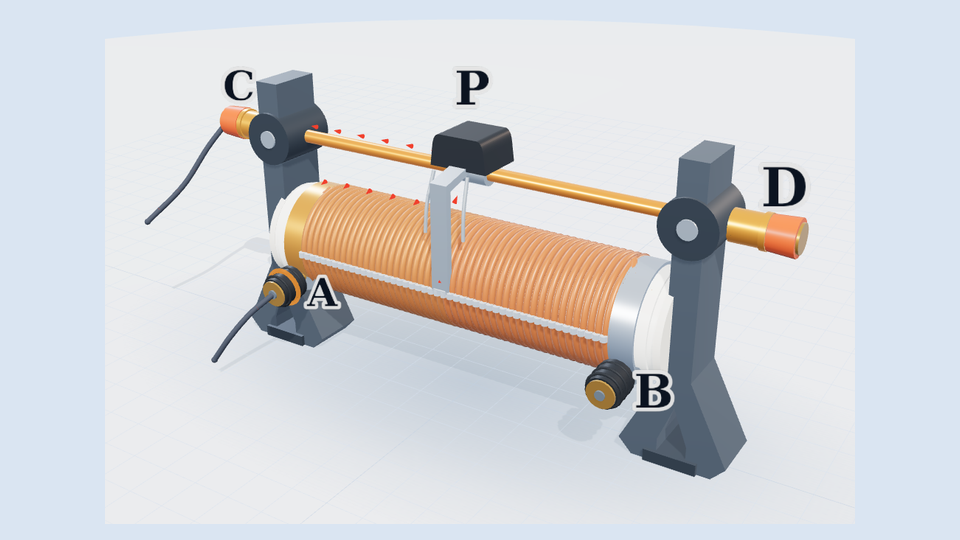
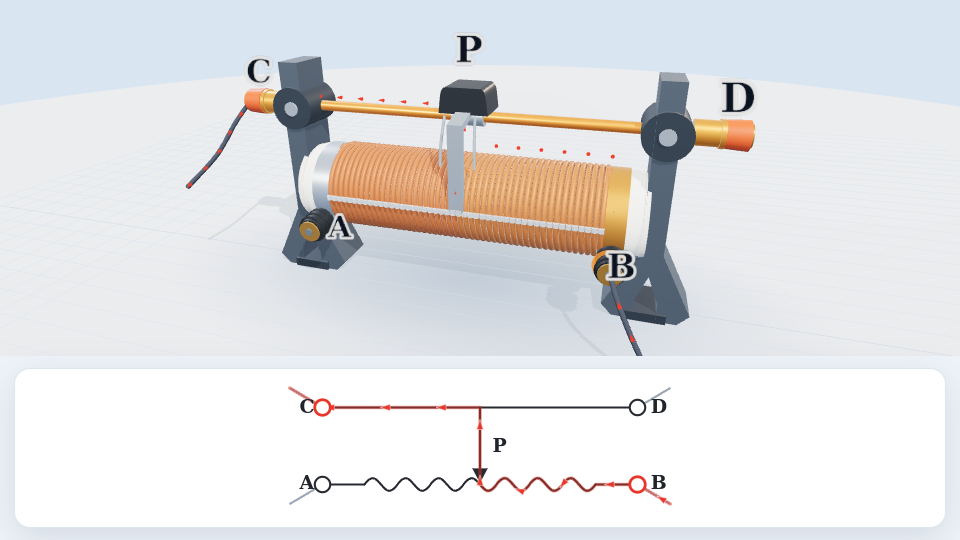
Add synchronized rheostat schematic with current paths and draggable slider

diff --git a/models/rheostat.html b/models/rheostat.html
@@ -162,10 +162,65 @@
     opacity:0;pointer-events:none;transition:all .25s ease;z-index:20;
   }
   #toast.show{opacity:1;transform:translate(-50%,0);}
+  /* 原理图与模型各有独立区域，避免遮住导线和滑片。 */
+  #stage{right:352px;bottom:264px;}
+  .head{max-width:550px;padding:10px 15px;}
+  .head p{display:none;}
+  .head h1{margin:0;}
+  .schematic-card{position:fixed;left:22px;right:352px;bottom:20px;height:230px;
+    z-index:5;background:#fff;border:1px solid var(--line);border-radius:16px;
+    box-shadow:var(--shadow);padding:12px 18px;}
+  .schematic-heading{display:flex;justify-content:space-between;align-items:center;gap:12px;font-size:17px;font-weight:700;}
+  #schematicRoute{color:#c0392b;font-size:17px;}
+  #schematicSvg{display:block;width:100%;height:180px;touch-action:none;user-select:none;}
+  #schematicSvg .conductor{fill:none;stroke:#272a30;stroke-width:3;stroke-linecap:round;stroke-linejoin:round;}
+  #schematicSvg text{font:700 27px Georgia,'Times New Roman',serif;fill:#20242b;}
+  #schematicSvg .port{fill:white;stroke:#272a30;stroke-width:3;}
+  #schematicSvg .port.connected{stroke:#e8372a;stroke-width:4;}
+  #schematicSvg .external{stroke:#9ca6b4;stroke-width:3;fill:none;}
+  #schematicSvg .path-current{fill:none;stroke:#e8372a;stroke-width:5;opacity:.45;stroke-linejoin:round;stroke-linecap:round;}
+  #schematicSvg .current-arrow{fill:#e8372a;stroke:white;stroke-width:.65;}
+  #schematicCurrent,#schematicArrows{pointer-events:none;}
+  #schematicSlider{cursor:ew-resize;}
+  .hint{bottom:264px;padding:5px 12px;font-size:11px;left:calc((100% - 352px)/2);}
+  body.controls-hidden #stage,body.controls-hidden .schematic-card{right:22px;}
+  body.controls-hidden .hint{left:50%;}
+  @media(max-height:780px){#stage{bottom:240px;}.schematic-card{height:206px;}#schematicSvg{height:158px;}.hint{bottom:240px;}}
+  @media(max-width:900px){#stage,.schematic-card{right:300px;}.panel{width:260px;right:18px;padding:12px;}.hint{left:calc((100% - 300px)/2);}}
+  @media(max-width:680px){#stage,body.controls-hidden #stage{right:0;bottom:222px;}
+    .schematic-card,body.controls-hidden .schematic-card{left:10px;right:10px;bottom:10px;height:202px;padding:10px;}
+    #schematicSvg{height:154px;}.schematic-heading,#schematicRoute{font-size:14px;}
+    .head{left:10px;top:10px;max-width:calc(100% - 64px);}.head p{display:none;}
+    .panel{top:58px;right:10px;width:240px;max-height:calc(100vh - 284px);}
+    #panelOpen{right:10px;top:12px;}.hint{display:none;}}
 </style>
 </head>
 <body>
   <div id="stage"><canvas id="scene"></canvas></div>
+  <section class="schematic-card" aria-label="滑动变阻器同步原理图">
+    <div class="schematic-heading"><span>原理图 · 滑片 P 可拖动</span><span id="schematicRoute" aria-live="polite">A → P → C</span></div>
+    <svg id="schematicSvg" viewBox="0 0 600 220" role="img" aria-labelledby="schematicTitle schematicDesc">
+      <title id="schematicTitle">滑动变阻器原理图</title>
+      <desc id="schematicDesc">上方为滑杆 C、D，下方为电阻丝 A、B，箭头 P 指向滑片接触点。红色表示实际电流路径。</desc>
+      <path class="external" d="M28 27 L75 55 M525 55 L572 27 M28 193 L75 165 M525 165 L572 193"/>
+      <path class="conductor" d="M75 55 H525 M75 165 H135 M465 165 H525"/>
+      <path id="schematicResistance" class="conductor"/>
+      <g id="schematicSlider">
+        <path id="schematicStem" class="conductor"/>
+        <path id="schematicTip" fill="#272a30"/>
+        <text id="schematicPLabel">P</text>
+        <rect id="schematicSliderHit" fill="transparent" width="44" height="133" y="40"/>
+      </g>
+      <path id="schematicCurrent" class="path-current"/>
+      <g id="schematicArrows"/>
+      <circle id="schematicPortA" class="port" cx="75" cy="165" r="11"/>
+      <circle id="schematicPortB" class="port" cx="525" cy="165" r="11"/>
+      <circle id="schematicPortC" class="port" cx="75" cy="55" r="11"/>
+      <circle id="schematicPortD" class="port" cx="525" cy="55" r="11"/>
+      <text x="42" y="172">A</text><text x="544" y="172">B</text>
+      <text x="42" y="63">C</text><text x="544" y="63">D</text>
+    </svg>
+  </section>
 
   <div class="head">
     <h1>滑动变阻器 <span>· 3D 交互演示</span></h1>
@@ -1010,6 +1065,78 @@
     dragging: false
   };
 
+  /* ================= 同步原理图 ================= */
+  const schematicSvg = document.getElementById('schematicSvg');
+  const schematicPath = document.getElementById('schematicCurrent');
+  const schematicArrows = document.getElementById('schematicArrows');
+  const schematicNodes = [];
+  const SVG_NS = 'http://www.w3.org/2000/svg';
+  let schematicKey = '', schematicLength = 1, schematicPhase = 0;
+  function diagramWaveY(x) { return 165 - 9 * Math.sin((x - 135) / 330 * Math.PI * 14); }
+  function diagramWave(a, b) {
+    const n = Math.max(1, Math.ceil(Math.abs(b - a) * 1.5)), pts = [];
+    for (let i = 0; i <= n; i++) {
+      const x = a + (b - a) * i / n;
+      pts.push([x, diagramWaveY(x)]);
+    }
+    return pts;
+  }
+  function diagramPath(points) { return points.map(function (p, i) { return (i ? 'L' : 'M') + p[0].toFixed(2) + ' ' + p[1].toFixed(2); }).join(' '); }
+  document.getElementById('schematicResistance').setAttribute('d', diagramPath(diagramWave(135, 465)));
+  for (let i = 0; i < 9; i++) {
+    const arrow = document.createElementNS(SVG_NS, 'path');
+    arrow.setAttribute('d', 'M-7 -4.7 L7 0 L-7 4.7 Z');
+    arrow.setAttribute('class', 'current-arrow');
+    schematicArrows.appendChild(arrow);schematicNodes.push(arrow);
+  }
+  function updateSchematic(dt) {
+    const fraction = clamp((state.pShown - COIL_X0) / COIL_L, 0, 1);
+    const px = 135 + fraction * 330, py = diagramWaveY(px);
+    const key = [px.toFixed(3), state.wire, state.dir, state.showFlow].join('|');
+    if (key !== schematicKey) {
+      schematicKey = key;
+      document.getElementById('schematicStem').setAttribute('d', 'M'+px+' 55 V'+(py-13));
+      document.getElementById('schematicTip').setAttribute('d', 'M'+(px-11)+' '+(py-23)+' L'+px+' '+(py-2)+' L'+(px+11)+' '+(py-23)+' Z');
+      const label = document.getElementById('schematicPLabel');label.setAttribute('x', px+18);label.setAttribute('y', 118);
+      document.getElementById('schematicSliderHit').setAttribute('x', px-22);
+      let points, route;
+      switch(state.wire) {
+        case 'BC': points = [[572,193],[525,165],[465,165]].concat(diagramWave(465,px),[[px,55],[75,55],[28,27]]);route=['B','P','C'];break;
+        case 'AB': points = [[28,193],[75,165],[135,165]].concat(diagramWave(135,465),[[525,165],[572,193]]);route=['A','B'];break;
+        case 'CD': points = [[28,27],[75,55],[525,55],[572,27]];route=['C','D'];break;
+        default: points = [[28,193],[75,165],[135,165]].concat(diagramWave(135,px),[[px,55],[75,55],[28,27]]);route=['A','P','C'];
+      }
+      if (state.dir < 0) { points.reverse();route.reverse(); }
+      schematicPath.setAttribute('d', diagramPath(points));
+      schematicPath.dataset.connection = state.wire;schematicPath.dataset.direction = String(state.dir);
+      schematicPath.dataset.sliderFraction = fraction.toFixed(5);
+      schematicLength = Math.max(1, schematicPath.getTotalLength());
+      document.getElementById('schematicRoute').textContent = route.join(' → ');
+      document.getElementById('schematicRoute').style.color = state.showFlow ? '#c0392b' : '#5a6879';
+      ['A','B','C','D'].forEach(function (port) { document.getElementById('schematicPort'+port).classList.toggle('connected', state.wire.indexOf(port)>=0); });
+      schematicPath.style.display = state.showFlow ? '' : 'none';
+      schematicArrows.style.display = state.showFlow ? '' : 'none';
+    }
+    schematicPhase = (schematicPhase + dt * 65) % schematicLength;
+    if (state.showFlow) schematicNodes.forEach(function (arrow, i) {
+      const d = (schematicPhase + i / schematicNodes.length * schematicLength) % schematicLength;
+      const p = schematicPath.getPointAtLength(d), a = schematicPath.getPointAtLength(Math.max(0,d-1)), b = schematicPath.getPointAtLength(Math.min(schematicLength,d+1));
+      arrow.setAttribute('transform','translate('+p.x+' '+p.y+') rotate('+(Math.atan2(b.y-a.y,b.x-a.x)*180/Math.PI)+')');
+    });
+  }
+  // 原理图滑片与 3D 滑片使用同一个位置状态。
+  let schematicDragging = false;
+  function moveSchematicSlider(e) {
+    const point = schematicSvg.createSVGPoint();point.x=e.clientX;point.y=e.clientY;
+    const p = point.matrixTransform(schematicSvg.getScreenCTM().inverse());
+    setSliderP(COIL_X0 + clamp((p.x-135)/330,0,1)*COIL_L);
+  }
+  document.getElementById('schematicSlider').addEventListener('pointerdown', function (e) {
+    e.preventDefault();schematicDragging=true;schematicSvg.setPointerCapture(e.pointerId);moveSchematicSlider(e);
+  });
+  schematicSvg.addEventListener('pointermove', function(e){if(schematicDragging)moveSchematicSlider(e);});
+  ['pointerup','pointercancel','lostpointercapture'].forEach(function(type){schematicSvg.addEventListener(type,function(){schematicDragging=false;});});
+
   /* ================= 爆炸位移 ================= */
   const EX = {
     coil: 1.80,
@@ -1232,16 +1359,18 @@
 
   /* ================= 相机控制 ================= */
   const view = {
-    theta: 0.56, phi: 1.16, dist: 26.5, distTarget: 26.5, baseDist: 26.5,
+    theta: 0.56, phi: 1.16, dist: 20.5, distTarget: 20.5, baseDist: 20.5,
     target: new THREE.Vector3(0.35, 3.90, 0)
   };
 
   function applyCamera() {
     const v = view;
+    const fit = Math.max(1, 20 / (2 * Math.tan(19 * Math.PI / 180) * camera.aspect * v.baseDist));
+    const dist = v.dist * fit;
     camera.position.set(
-      v.target.x + v.dist * Math.sin(v.phi) * Math.sin(v.theta),
-      v.target.y + v.dist * Math.cos(v.phi),
-      v.target.z + v.dist * Math.sin(v.phi) * Math.cos(v.theta)
+      v.target.x + dist * Math.sin(v.phi) * Math.sin(v.theta),
+      v.target.y + dist * Math.cos(v.phi),
+      v.target.z + dist * Math.sin(v.phi) * Math.cos(v.theta)
     );
     camera.lookAt(v.target);
   }
@@ -1476,14 +1605,17 @@
 
   document.getElementById('panelClose').addEventListener('click', function () {
     el.panel.classList.add('collapsed');
+    document.body.classList.add('controls-hidden');resize();
   });
   document.getElementById('panelOpen').addEventListener('click', function () {
     el.panel.classList.remove('collapsed');
+    document.body.classList.remove('controls-hidden');resize();
   });
 
   /* ================= 尺寸 ================= */
   function resize() {
-    const w = window.innerWidth, h = window.innerHeight;
+    const stage = document.getElementById('stage');
+    const w = stage.clientWidth, h = stage.clientHeight;
     renderer.setSize(w, h, false);
     camera.aspect = w / h;
     camera.updateProjectionMatrix();
@@ -1522,6 +1654,7 @@
     applyCamera();
     updateFlows();
     updateArrowPositions();
+    updateSchematic(dt);
     renderer.render(scene, camera);
     requestAnimationFrame(tick);
   }
@@ -1603,9 +1736,10 @@
     },
     screenOf: function (x, y, z) {
       const v = new THREE.Vector3(x, y, z).project(camera);
+      const rect = canvas.getBoundingClientRect();
       return {
-        x: Math.round((v.x * 0.5 + 0.5) * window.innerWidth),
-        y: Math.round((-v.y * 0.5 + 0.5) * window.innerHeight)
+        x: Math.round(rect.left + (v.x * 0.5 + 0.5) * rect.width),
+        y: Math.round(rect.top + (-v.y * 0.5 + 0.5) * rect.height)
       };
     },
     sliderScreen: function () {

diff --git a/index.html b/index.html
@@ -112,7 +112,7 @@
   </div>
 </section>
 
-<script src="catalog.js?v=20261007-motor-principles"></script>
+<script src="catalog.js?v=20261008-rheostat-schematic"></script>
 <script>
 (() => {
   const data = Array.isArray(window.MODEL_CATALOG) ? window.MODEL_CATALOG : [];
@@ -172,7 +172,8 @@
 
   function modelPath(item,embedded=false){
     if(item.id==='museum-alarm') return item.path+'?v=20261006-alarm-v2';
-    if(item.id==='rheostat'||item.id==='e27-bulb') return item.path+'?v=20261008-visible-current';
+    if(item.id==='rheostat') return item.path+'?v=20261008-schematic';
+    if(item.id==='e27-bulb') return item.path+'?v=20261008-visible-current';
     return item.path+(item.id==='eye-accommodation'?'?v=4693abb'+(embedded?'&embedded=1':''):'');
   }
   function openModel(id){

diff --git a/catalog.js b/catalog.js
@@ -33,11 +33,11 @@ window.MODEL_CATALOG = [
   },
   {
     "id": "rheostat",
-    "cover": "assets/covers/rheostat.png?v=20261006",
+    "cover": "assets/covers/rheostat.png?v=20261008-schematic",
     "title": "滑动变阻器",
     "subtitle": "接线、滑片与电流方向",
     "category": "电学元件",
-    "summary": "可拖动滑片 P、切换接线柱组合、观察接入电阻与电流方向，并使用爆炸视图理解内部结构。",
+    "summary": "3D 实物与原理图同步显示：拖动任一图中的滑片 P，观察接入电阻、电流路径和方向共同变化；可切换接线组合，并使用爆炸视图理解内部结构。",
     "tags": [
       "变阻器",
       "接线",
